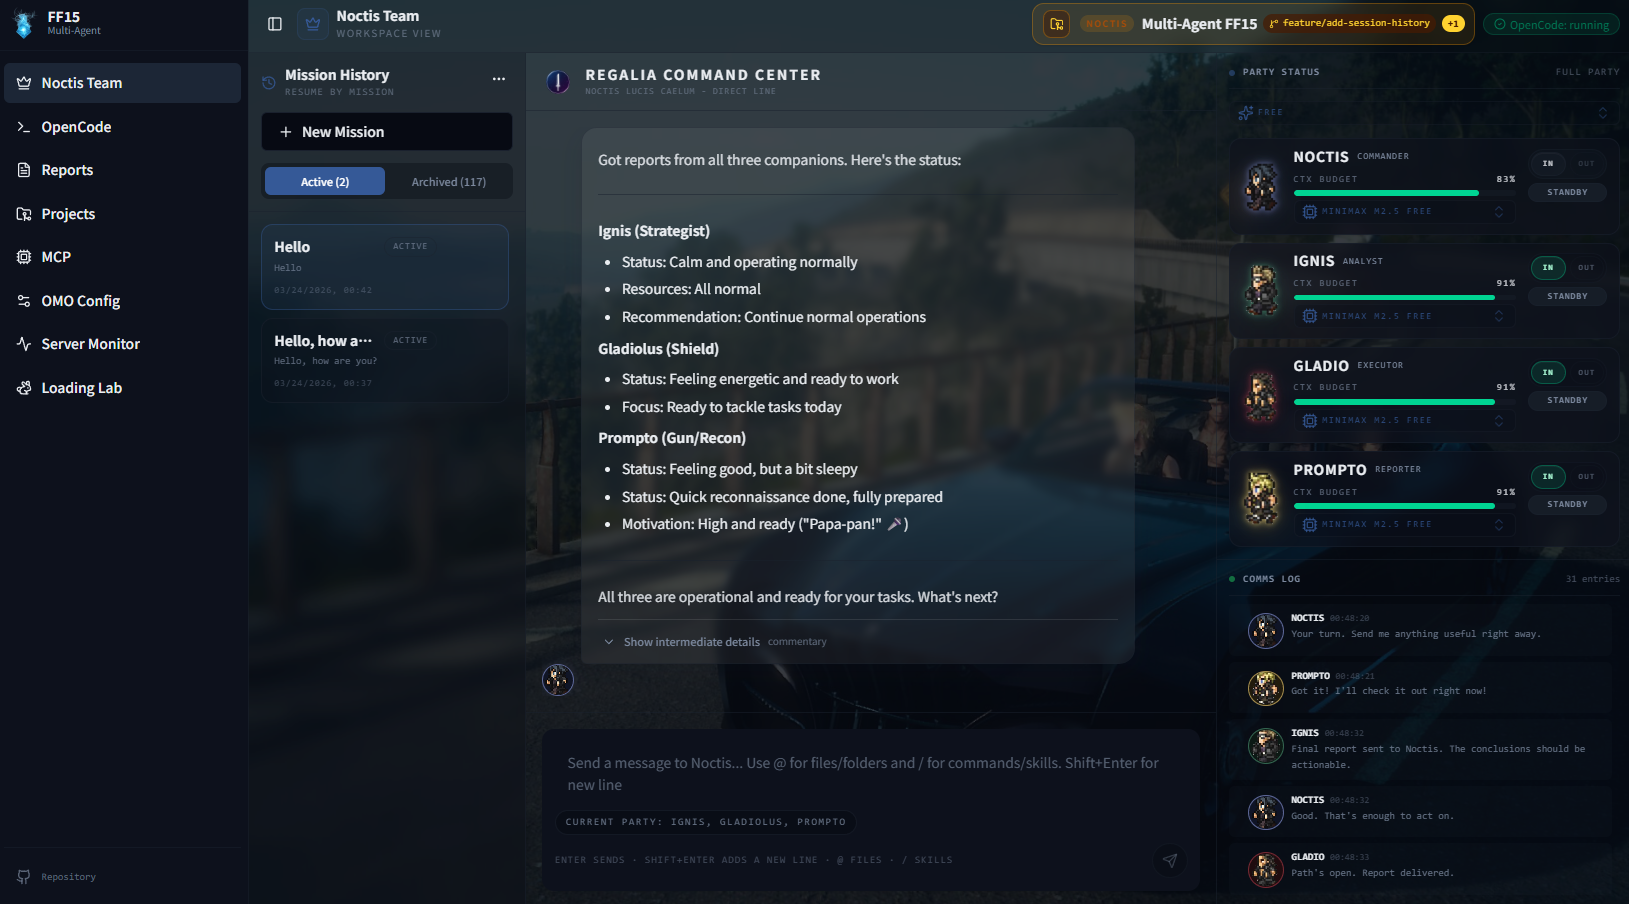
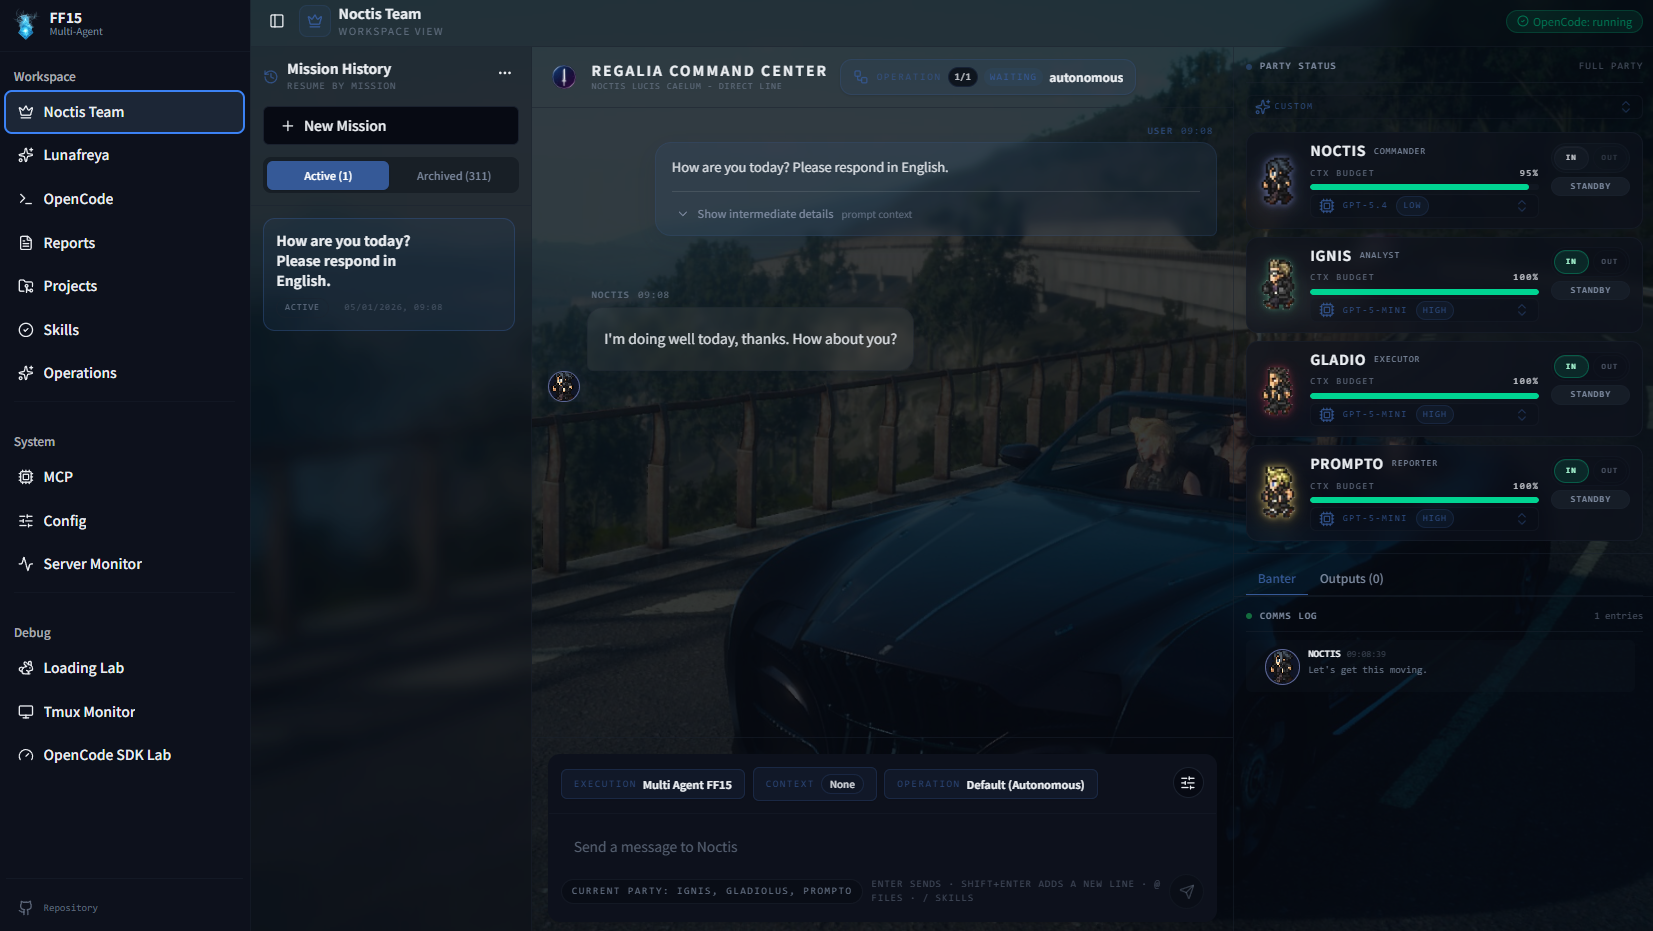
style: update Noctis Team screen image and description

diff --git a/README.md b/README.md
@@ -15,62 +15,75 @@
 </div>
 
 <p align="center">
-  <img src="assets/noctis_team_screen.png" alt="multi-agent-ff15: Noctis Team dashboard" width="800">
+	<img src="assets/noctis_team_screen.png" alt="multi-agent-ff15: Noctis Team dashboard" width="800">
 </p>
 
-<p align="center"><i>Noctis Team screen — dispatch missions to your AI agents and monitor their sessions in real time</i></p>
+<p align="center"><i>Noctis Team screen — dispatch missions and monitor agent activity in real time</i></p>
 
 ---
 
-**multi-agent-ff15** is a web-based dashboard that brings the FF15-inspired multi-agent system to life in a browser. You orchestrate **Noctis** (King) and the comrades (Ignis, Gladiolus, Prompto) through a polished React UI backed by live OpenCode sessions — no tmux knowledge required.
-Lunafreya and Iris are planned for a future release.
+`multi-agent-ff15` is the current browser-first application for FF15-inspired OpenCode workflows. It replaces the older desktop/Tauri app in this repository and turns a tmux-heavy multi-agent setup into a single browser surface for dispatching work, monitoring sessions, reviewing reports, and inspecting runtime state.
 
 > **Built on**: [OpenCode](https://opencode.ai) · React Router 7 · TypeScript
 
----
+## Why Use It
+
+- Run Noctis-led multi-agent workflows from a browser instead of living in tmux.
+- See what agents actually did through live sessions, tool traces, and reports.
+- Keep missions, projects, configuration, MCP state, and runtime health in one place.
 
 ## Overview
 
-Multi-agent parallel development framework using OpenCode.
-Inspired by FINAL FANTASY XV's Kingdom of Lucis.
+The dashboard is organized around a human workflow rather than raw runtime internals:
+
+- `Noctis Team`: start work and watch party activity
+- `OpenCode Sessions`: inspect session history, tool calls, models, and context/execution selection
+- `Reports`: review long-form output after a mission finishes
+- `Projects`: choose where work runs and launch the right workspace
+- `Config`: edit app settings and bootstrap required local config
+- `MCP` and `Server`: inspect MCP configuration and OpenCode runtime state
+
+### Typical Flow
+
+1. Send a mission from `Noctis Team`.
+2. Watch the party respond and inspect detailed session activity.
+3. Open `Reports` when you need a cleaner long-form result.
+4. Use `Projects`, `Config`, `MCP`, or `Server` when you need execution context or runtime debugging.
 
 ### Agent Relationships
 
 ```mermaid
 flowchart TD
-  U[User]
-  N[Noctis<br/>Lead agent / main user-facing contact]
-  F[Active workflow step<br/>decides who acts next]
-  I[Ignis<br/>Analysis / planning / review]
-  G[Gladiolus<br/>Implementation / fixes / hardening]
-  P[Prompto<br/>Recon / reporting / cleanup]
+	U[User]
+	N[Noctis<br/>Lead agent / main user-facing contact]
+	F[Active workflow step<br/>decides who acts next]
+	I[Ignis<br/>Analysis / planning / review]
+	G[Gladiolus<br/>Implementation / fixes / hardening]
+	P[Prompto<br/>Recon / reporting / cleanup]
 
-  U -->|request| N
-  N --> F
+	U -->|request| N
+	N --> F
 
-  F --> N
-  F --> I
-  F --> G
-  F --> P
+	F --> N
+	F --> I
+	F --> G
+	F --> P
 ```
 
-- User-facing requests start with Noctis.
-- Noctis is the lead agent and the main user-facing contact.
-- Ignis, Gladiolus, and Prompto are specialist teammates with distinct responsibilities.
-- The active workflow step determines whether work stays with Noctis or moves to a specialist.
-- Depending on the workflow, ownership may return to Noctis between steps or move across specialists before the final response.
+- `Noctis` is the lead agent and the main user-facing contact.
+- `Ignis`, `Gladiolus`, and `Prompto` are specialist teammates.
+- The human user is referred to as `User`.
+- `Iris` and `Lunafreya` are not part of the primary shipped browser workflow yet.
 
----
-
-## 🚀 Quick Start
+## Quick Start
 
 ### Prerequisites
 
 - Node.js 20+
 - npm 10+
-- [OpenCode](https://opencode.ai) CLI (authenticated)
+- [OpenCode](https://opencode.ai) CLI with an authenticated provider account
 
-### Step 1: Clone & initial setup
+### 1. Initial setup
 
 ```bash
 git clone https://github.com/atman-33/multi-agent-ff15.git
@@ -78,197 +91,94 @@ cd multi-agent-ff15
 ./first_setup.sh
 ```
 
-`first_setup.sh` installs tmux and uv/uvx, creates a local `opencode.json` from the tracked template, and initializes `tmux-resident` transport mode when it is not already configured.
+`first_setup.sh` installs `tmux` and `uv/uvx` when needed, enables tmux mouse scrolling, creates local `opencode.json` from `config/opencode.template.json`, and initializes `transport_mode: tmux-resident` in `config/settings.yaml` when missing.
 
-### Step 2: Authenticate OpenCode (first time only)
+### 2. Authenticate OpenCode
 
 ```bash
 source ~/.bashrc
 opencode
-# → Select your AI model provider
-# → Follow the authentication prompts
-# → Type /exit to quit
 ```
 
-Credentials are saved to `~/.opencode/` and never need to be entered again.
+Credentials are stored in `~/.opencode/`.
 
-`opencode.json` is intentionally local to each user and is generated by `first_setup.sh`.
-
-### Step 3: Build the web app (first time only)
+### 3. Build once
 
 ```bash
 ./standby.sh --build
 ```
 
-### Step 4: Daily startup
+### 4. Start the dashboard
 
 ```bash
 ./standby.sh
 ```
 
-The app starts on **`http://localhost:13000`** and the browser opens automatically.
+The app runs at `http://localhost:13000`. Use `./standby.sh --attach` to attach to the tmux runtime when `transport_mode` is `tmux-resident`.
 
----
+## Product Tour
 
-## 🖥 Web App Screens
+| Screen | Purpose |
+|-------|---------|
+| Noctis Team | Main mission surface for dispatch, activity, and mission history |
+| OpenCode Sessions | Detailed session viewer for messages, tools, models, and execution context |
+| Reports | Long-form report browser for reviewing outcomes after the live run |
+| Projects | Project registry and workspace launch surface |
+| Config | App settings and local config bootstrap helpers |
+| MCP / Server | Runtime inspection for MCP configuration, health, and server state |
 
-### Noctis Team
+## Configuration
 
-The primary command screen. Send missions to Noctis and watch the agent team respond in real time.
+Tracked defaults live in `config/`.
 
-| Feature | Description |
-|---------|-------------|
-| Mission dispatch | Send a task to Noctis with a single message |
-| Agent session view | Live output from each agent's OpenCode session |
-| Mission history | Browse past missions and their outcomes |
+- `config/settings.yaml`: `language`, `shared_skills_root`, `transport_mode`
+- `config/models.yaml`: model assignments and switching metadata
+- `config/opencode.template.json`: tracked template for the local `opencode.json`
 
-### OpenCode Sessions
+`opencode.json` is user-local runtime config. It is bootstrapped by `first_setup.sh` and should not be treated as the canonical tracked template.
 
-Inspect any OpenCode session directly in the browser — full message history, tool calls, model activity, and explicit session-local execution/context selection.
+Use `./standby.sh --set-transport app-owned` or `./standby.sh --set-transport tmux-resident` to switch transport mode explicitly.
 
-### Projects
+## Development
 
-Browse the registered project registry and launch workspaces. Execution and context selection now happens per mission or session.
-
-### Reports
-
-Browse and read Markdown reports generated by agents, with table-of-contents navigation.
-
-### MCP
-
-View the MCP (Model Context Protocol) server configuration used by OpenCode agents.
-
-### Server
-
-Monitor the OpenCode server status — connection health, errors, and active sessions.
-
----
-
-## ⚙ Configuration
-
-### Language
-
-Edit `config/settings.yaml`:
-
-```yaml
-language: ja   # Japanese responses
-language: en   # English responses
-```
-
-### Web port
-
-- `./standby.sh` starts the production web server on port `13000` by default.
-- `npm run web:dev` starts the development server on port `5173` by default.
-- Agent helper scripts resolve the active web origin from `FF15_WEB_ORIGIN` first, then `runtime/web-server.json`.
-
-To override the port explicitly:
+Use the root npm scripts for web work:
 
 ```bash
-npm run web:dev -- --port 14000
-npm run web:start -- --port 14000
-FF15_WEB_ORIGIN=http://localhost:14000 ./scripts/send_report.sh ...
-```
-
----
-
-## 🛠 Development
-
-Start the development server with HMR:
-
-```bash
+npm run web:install
 npm run web:dev
+npm run web:build
+npm run web:start
+npm run web:typecheck
+npm run web:lint
+npm run web:test
 ```
 
-App available at `http://localhost:5173` by default.
+`npm run web:dev` serves the app on port `5173` by default. `./standby.sh` runs the production server on port `13000`.
 
-### Other commands
+## Repository Map
 
-```bash
-npm run web:install    # Install dependencies
-npm run web:build      # Production build
-npm run web:start      # Start production server
-npm run web:typecheck  # Type check
-npm run web:lint       # Lint
-npm run web:test       # Run tests
-```
+- `web/`: React Router app, loaders/actions, API routes, and UI state
+- `scripts/`: setup, startup, transport, and config helpers
+- `config/`: tracked settings, models, and local config templates
+- `projects/`: project definitions used by the UI and workflows
+- `builtins/`: localized built-in operation and instruction assets
+- `skills/`: shared skills used by the workflow system
+- `openspec/`: OpenSpec changes and specs
+- `docs/reports/`: active report artifacts
+- `runtime/`: generated runtime state and transport/session artifacts
+- `logs/`: debug logs
+- `assets/`: static images used by docs and the UI
 
----
+## Notes for Contributors and Agents
 
-## 🗂 Project Structure
+- Treat `runtime/` and `logs/` as generated state unless you are changing the code that produces them.
+- Put active reports in `docs/reports/`.
+- Prefer the root npm scripts for `web/` tasks instead of running ad-hoc commands inside `web/`.
 
-```
-multi-agent-ff15/
-├── standby.sh              # Daily startup script (launch + browser open)
-├── first_setup.sh          # One-time environment setup
-├── config/
-│   ├── settings.yaml       # Language and app settings
-│   └── models.yaml         # Agent model configuration
-├── web/                    # React Router 7 web app
-│   └── app/
-│       ├── routes/         # Page routes
-│       │   ├── _layout.noctis-team/   # Noctis Team screen
-│       │   ├── _layout.opencode/      # OpenCode session viewer
-│       │   ├── _layout.projects/      # Project management
-│       │   ├── _layout.reports/       # Report browser
-│       │   ├── _layout.mcp/           # MCP config viewer
-│       │   └── _layout.server/        # Server status
-│       ├── lib/            # Shared utilities
-│       └── stores/         # Zustand state stores
-├── docs/
-│   └── reports/            # Agent-generated reports
-├── runtime/
-│   ├── opencode-session-state.json
-│   └── noctis-missions/    # Mission records (JSON)
-├── projects/               # Project configuration files
-└── .opencode/              # OpenCode agent definitions
-```
-
----
-
-## 🧩 Tech Stack
-
-| Layer | Technology |
-|-------|-----------|
-| Framework | React Router 7 (SSR) |
-| Language | TypeScript |
-| UI | React 19 + Tailwind CSS v4 |
-| Components | shadcn/ui (Radix UI primitives) |
-| State | Zustand |
-| Build | Vite 7 |
-| AI runtime | OpenCode CLI |
-| MCP | Serena (semantic coding tools) |
-
----
-
-## 👥 Agent Roster
-
-| Agent | Role | Symbol | Status |
-|-------|------|--------|--------|
-| Noctis | King — lead agent and main user-facing contact | 👑 | ✅ Implemented |
-| Ignis | Strategist comrade | ⚔ | ✅ Implemented |
-| Gladiolus | Shield comrade | 🛡 | ✅ Implemented |
-| Prompto | Recon comrade | 🔫 | ✅ Implemented |
-| Iris | Guardian / gatekeeper | 🌸 | 🔜 Planned |
-| Lunafreya | Oracle — independent advisor | ✨ | 🔜 Planned |
-
-The user is referred to as **User** by all agents.
-
----
-
-## 🙏 Credits
+## Credits
 
 Inspired by [multi-agent-shogun](https://github.com/yohey-w/multi-agent-shogun) by [@yohey-w](https://github.com/yohey-w) and the original multi-agent-ff15 design.
 
----
+## License
 
-## 📄 License
-
-MIT License — See [LICENSE](LICENSE) for details.
-
----
-
-<div align="center">
-
-**Command your AI team. Ship faster.**
-
-</div>
+MIT License.
